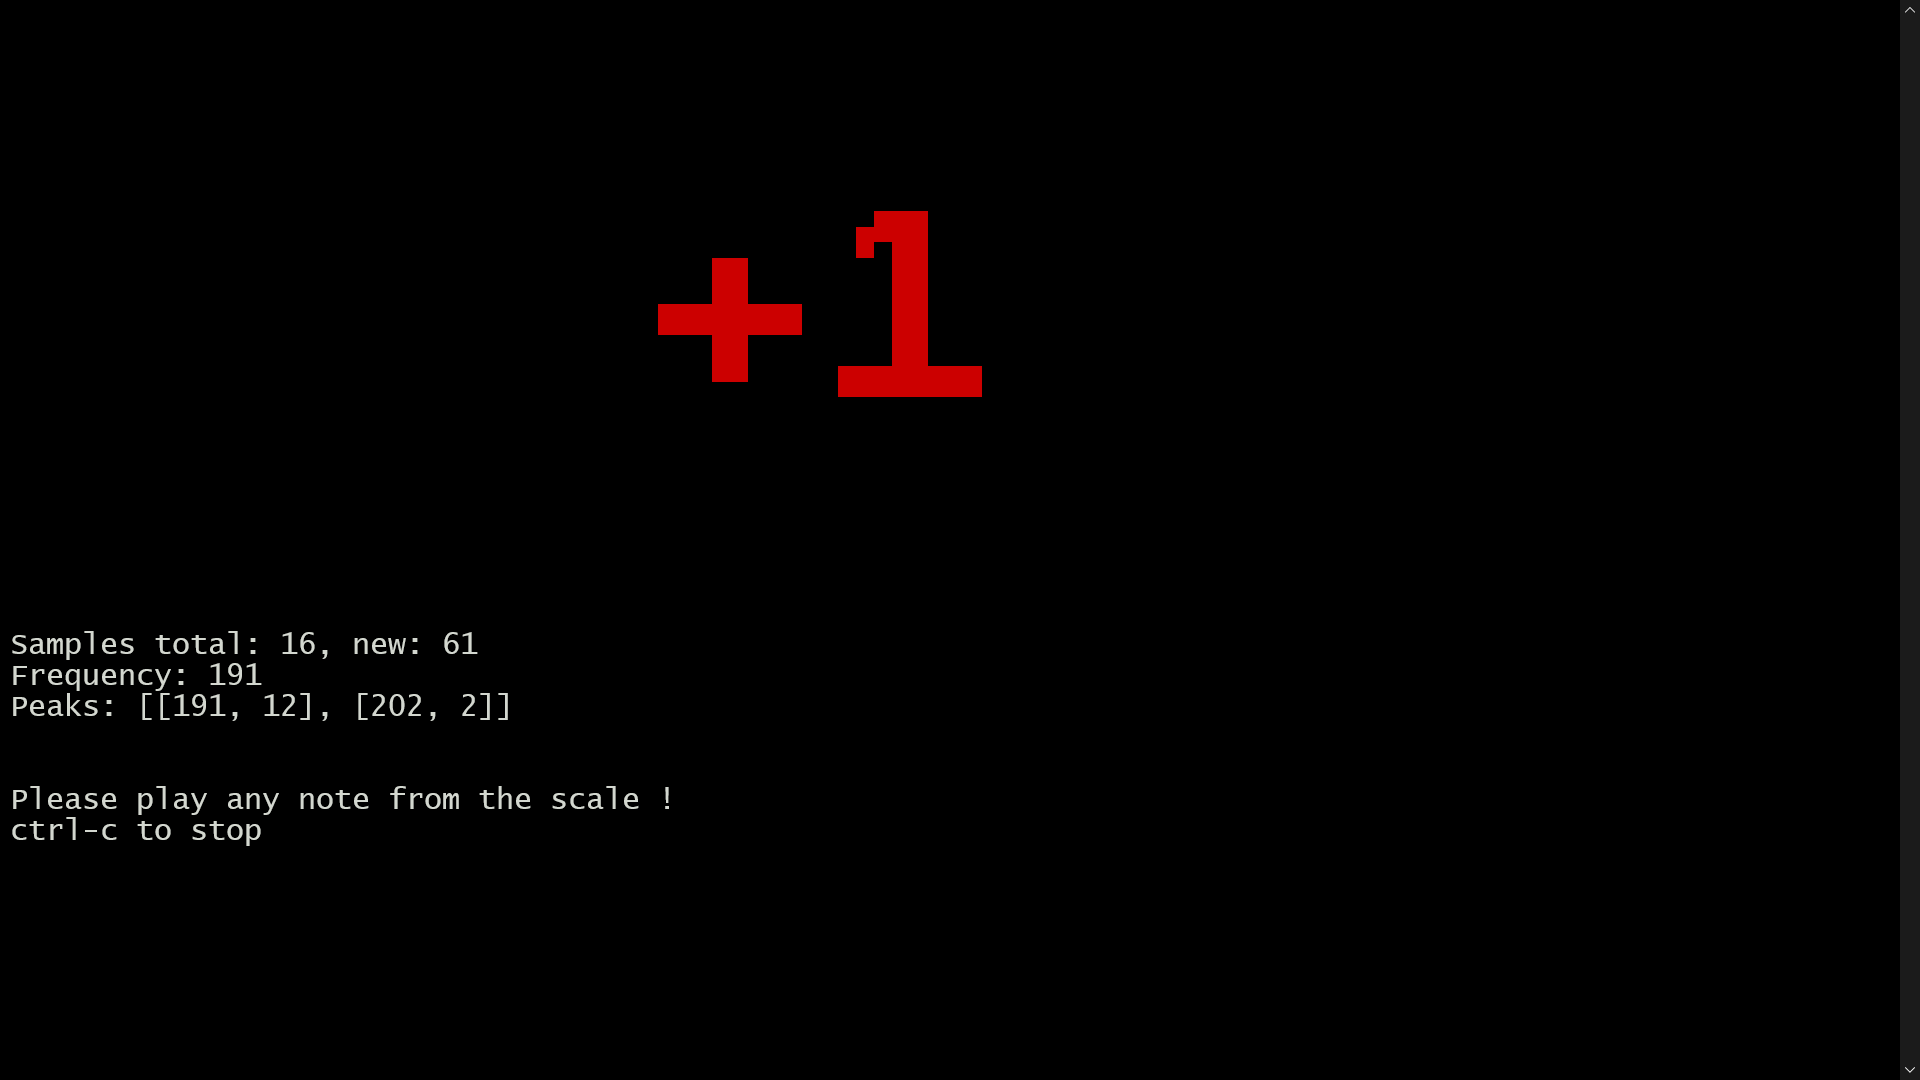
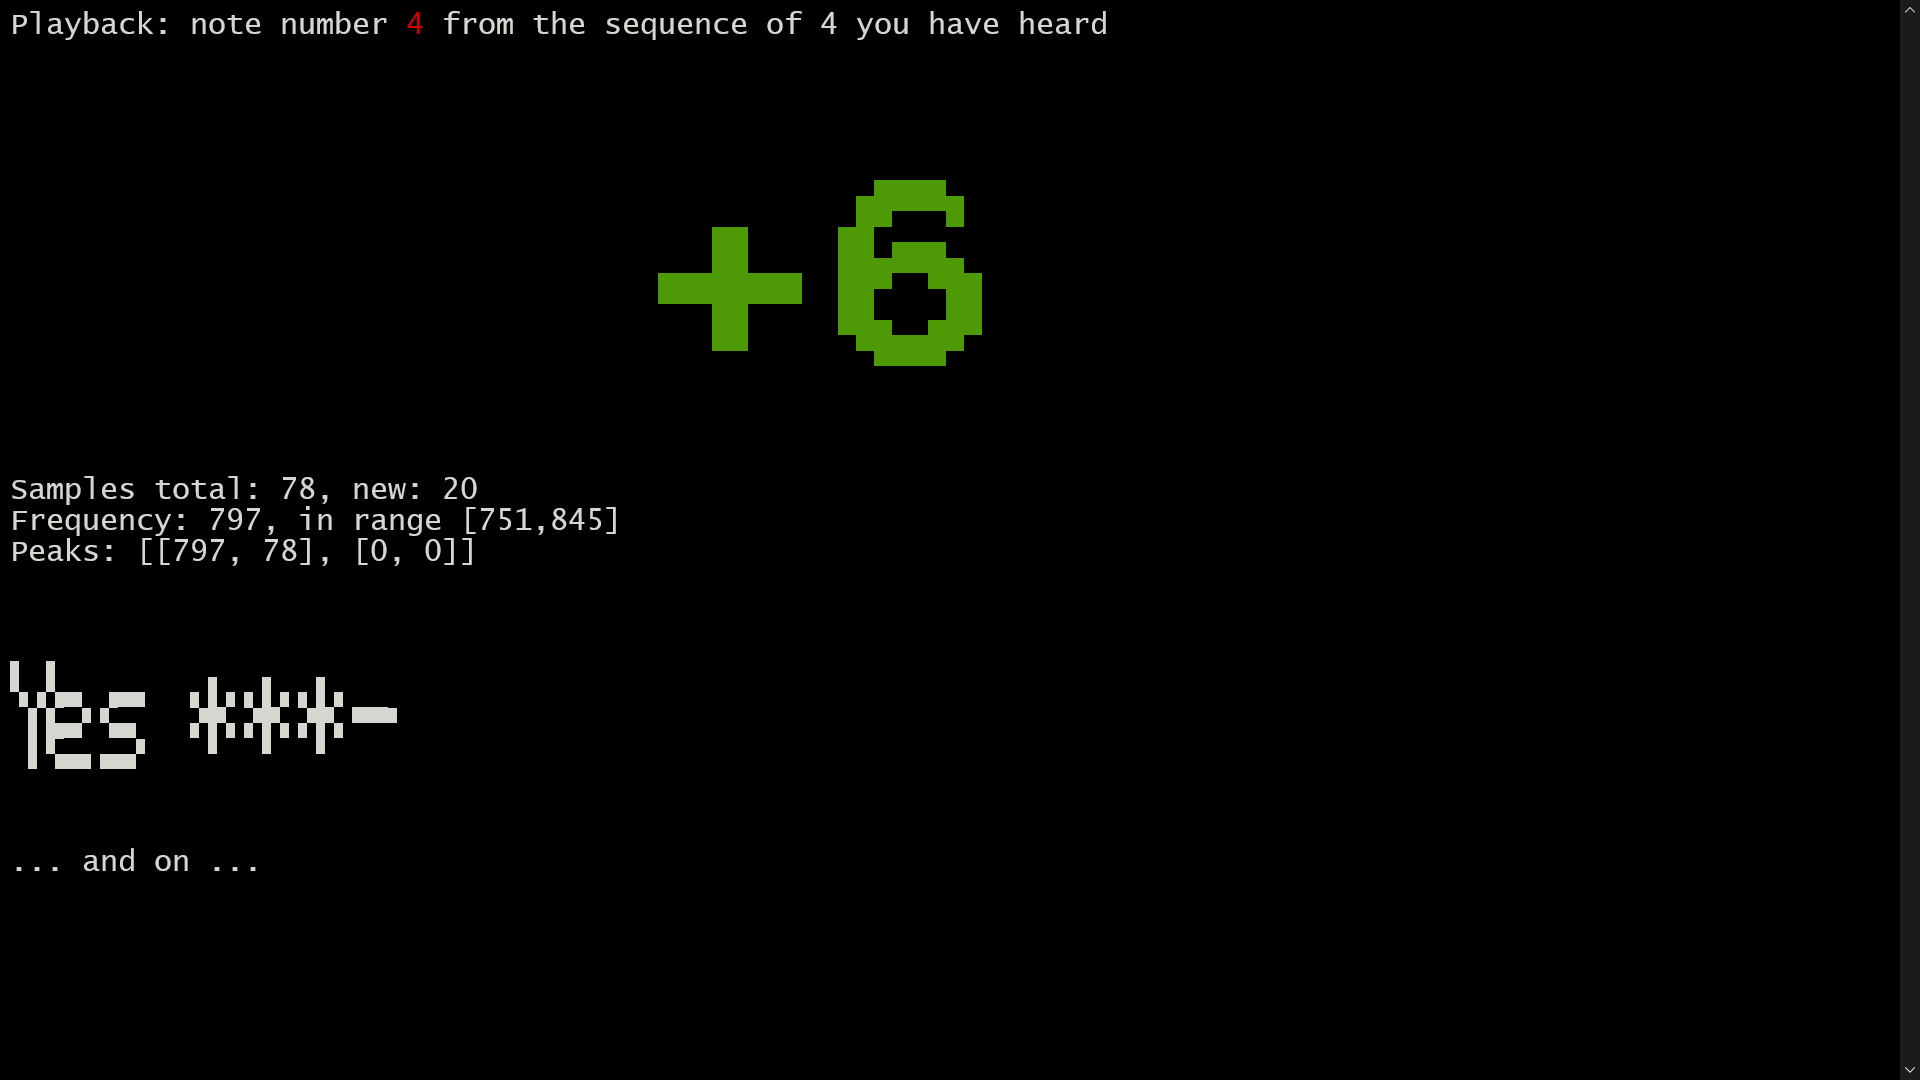
handling okay

diff --git a/harp_scale_trainer.rb b/harp_scale_trainer.rb
@@ -2,7 +2,9 @@
 
 require 'set'
 require 'json'
-require 'byebug' ##
+
+## some useful debug code in this program is commented out with two hashes
+## require 'byebug'
 
 #
 # Argument processing
@@ -214,7 +216,7 @@ def describe_freq freq
 end
   
 
-def get_hole issue, lambda_good_done, lambda_comment, hint = nil, hint_count = 0
+def get_hole issue, lambda_good_done = nil, lambda_comment = nil, lambda_hint = nil
 
   samples = Array.new
 
@@ -224,7 +226,6 @@ def get_hole issue, lambda_good_done, lambda_comment, hint = nil, hint_count = 0
   # See  https://en.wikipedia.org/wiki/ANSI_escape_code
   print "\033[?25l"  # hide cursor
   $move_down_on_exit = true
-  $term_height, $term_width = %x(stty size).split.map(&:to_i)
   err_b "Terminal is too small: [width, height] = #{[$term_width,$term_height].inspect} < [100,28]" if $term_width < 100 || $term_height < 30
     
   pad = '           '
@@ -235,7 +236,7 @@ def get_hole issue, lambda_good_done, lambda_comment, hint = nil, hint_count = 0
     tnow = Time.now.to_f
 
     print "\033[#{$line_comment}H"
-    lambda_comment.call
+    lambda_comment.call if lambda_comment
     print "\033[H\033[1H"
     # get and filter new samples
     system("arecord -D pulse -r 48000 -s 24000 #{$sample_file} >/dev/null 2>&1") or fail 'arecord failed'
@@ -251,10 +252,10 @@ def get_hole issue, lambda_good_done, lambda_comment, hint = nil, hint_count = 0
 
     hole = '-'
     extra = nil
-    if Time.now.to_f - tstart > 0.5 ##
-      samples = (1..78).to_a.map {|x| [tnow + x/100.0, 797]}
-      new_samples = samples[0, 20]
-    end
+##    if Time.now.to_f - tstart > 0.5 ##
+##      samples = (1..78).to_a.map {|x| [tnow + x/100.0, 797]}
+##      new_samples = samples[0, 20]
+##    end
     if samples.length > 8
       # each peak has structure [frequency in hertz, count]
       pks = get_two_peaks samples.map {|x| x[1]}.sort, 10
@@ -266,9 +267,10 @@ def get_hole issue, lambda_good_done, lambda_comment, hint = nil, hint_count = 0
       if pk[1] > 8
         hole, lbor, ubor = describe_freq pk[0]
         good, done = lambda_good_done.call(hole)
-        if Time.now.to_f - tstart > 2 ##
-          good = done = true
-        end
+##        good = true ##
+##        if Time.now.to_f - tstart > 2  ##
+##          good = done = true
+##        end
         extra += ", in range [#{lbor},#{ubor}]" if lbor
       else
         extra += ', count below threshold'
@@ -280,8 +282,8 @@ def get_hole issue, lambda_good_done, lambda_comment, hint = nil, hint_count = 0
     print "\033[H\033[#{$line_note}H"
     print "\033[#{good ? 32 : 31}m" unless hole == '-'
     puts_pad figlet_out
-    puts "\033[0m" unless hole == '-'
-    puts "\033[#{$line_samples}H"
+    print "\033[0m"
+    print "\033[#{$line_samples}H"
     puts_pad "Samples total: #{samples.length}, new: #{new_samples.length}#{pad}"
     puts_pad extra || ''
     count += 1
@@ -291,8 +293,8 @@ def get_hole issue, lambda_good_done, lambda_comment, hint = nil, hint_count = 0
       $move_down_on_exit = false
       return hole
     end
-    puts "\033[#{$line_hint}H"
-    puts_pad hint && count > hint_count ? hint : ''
+    print "\033[#{$line_hint}H"
+    lambda_hint.call(tstart) if lambda_hint
   end
 end
 
@@ -313,40 +315,45 @@ def do_quiz
   loop do
     wanted = $scale_holes.sample($num_quiz)
     sleep 0.3
+    print ' '.ljust($term_width - 2)
+    print "\r"
     wanted.each do |hole|
       file = "#{$sample_dir}/#{$harp[hole][:note]}.wav"
-      print "play ... "
+      print "listen ... "
       system("aplay -D pulse #{file} >/dev/null 2>&1") or fail 'aplay failed'
       sleep 0.1
     end
-    puts "done"
+    print "\033[32mplay !\033[0m"
     sleep 0.5
 
     wanted.each_with_index do |want,idx|
       get_hole(
         if $num_quiz == 1 
-          "Play the note you heard"
+          "Play the note you have heard"
         else
-          "Playback: note number \033[31m#{idx+1}\033[0m from the sequence you heard"
+          "Playback: note number \033[31m#{idx+1}\033[0m from the sequence of #{$num_quiz} you have heard"
         end,
         -> (played) {[played == want, played == want]},
         -> () do
-                if idx < wanted.length - 1
-                  text = 'Yes  ' + '*' * idx + '-' * (wanted.length - idx -1)
-                  system("figlet -f smblock \"#{text}\"")
-                  puts "\033[#{$line_hint}H"
-                  puts "\n... and on ..."
-                end
-              end,
-        "Hint: play \033[32m#{want}\033[0m or hit ctrl-c to stop",
-        4)
+          if idx < wanted.length
+            text = 'Yes  ' + '*' * idx + '-' * (wanted.length - idx)
+            system("figlet -f smblock \"#{text}\"")
+            print "\033[#{$line_comment2}H"
+            print "... and on ..."
+          end
+        end,
+        -> (tstart) do
+          if Time.now.to_f - tstart > 2
+            print "Hint: play \033[32m#{want}\033[0m (#{$harp[want][:note]}) or hit ctrl-c to stop"
+          end
+        end)
       print "\033[#{$line_comment}H"
       figlet_out = %x(figlet -f smblock Great !)
-      puts "\033[32m"
+      print "\033[32m"
       puts_pad figlet_out
-      puts "\033[0m"
-      puts "\033[#{$line_hint}H"
-      puts_pad "... and again !"
+      print "\033[0m"
+      print "\033[#{$line_comment2}H"
+      puts_pad "... and \033[32magain\033[0m !"
       puts
     end
     sleep 1
@@ -360,9 +367,8 @@ def do_listen
     puts c
     sleep 1
   end
-  get_hole("Play any note from the scale (or hit ctrl-c to stop) !",
-           -> (played) {[$scale_holes.include?(played), false]},
-           -> () {}) 
+  get_hole("Play any note from the scale to get \033[32mgreen\033[0m !",
+           -> (played) {[$scale_holes.include?(played), false]})
 end
 
 
@@ -533,8 +539,11 @@ at_exit { print "\033[?25h\033[25H" if $move_down_on_exit }
 $line_note = 5
 $line_samples = 16
 $line_comment = 22
+$line_comment2 = 28
 $line_hint = 30
-
+STDOUT.sync = true
+$term_height, $term_width = %x(stty size).split.map(&:to_i)
+  
 
 #
 # Some sanity checks
